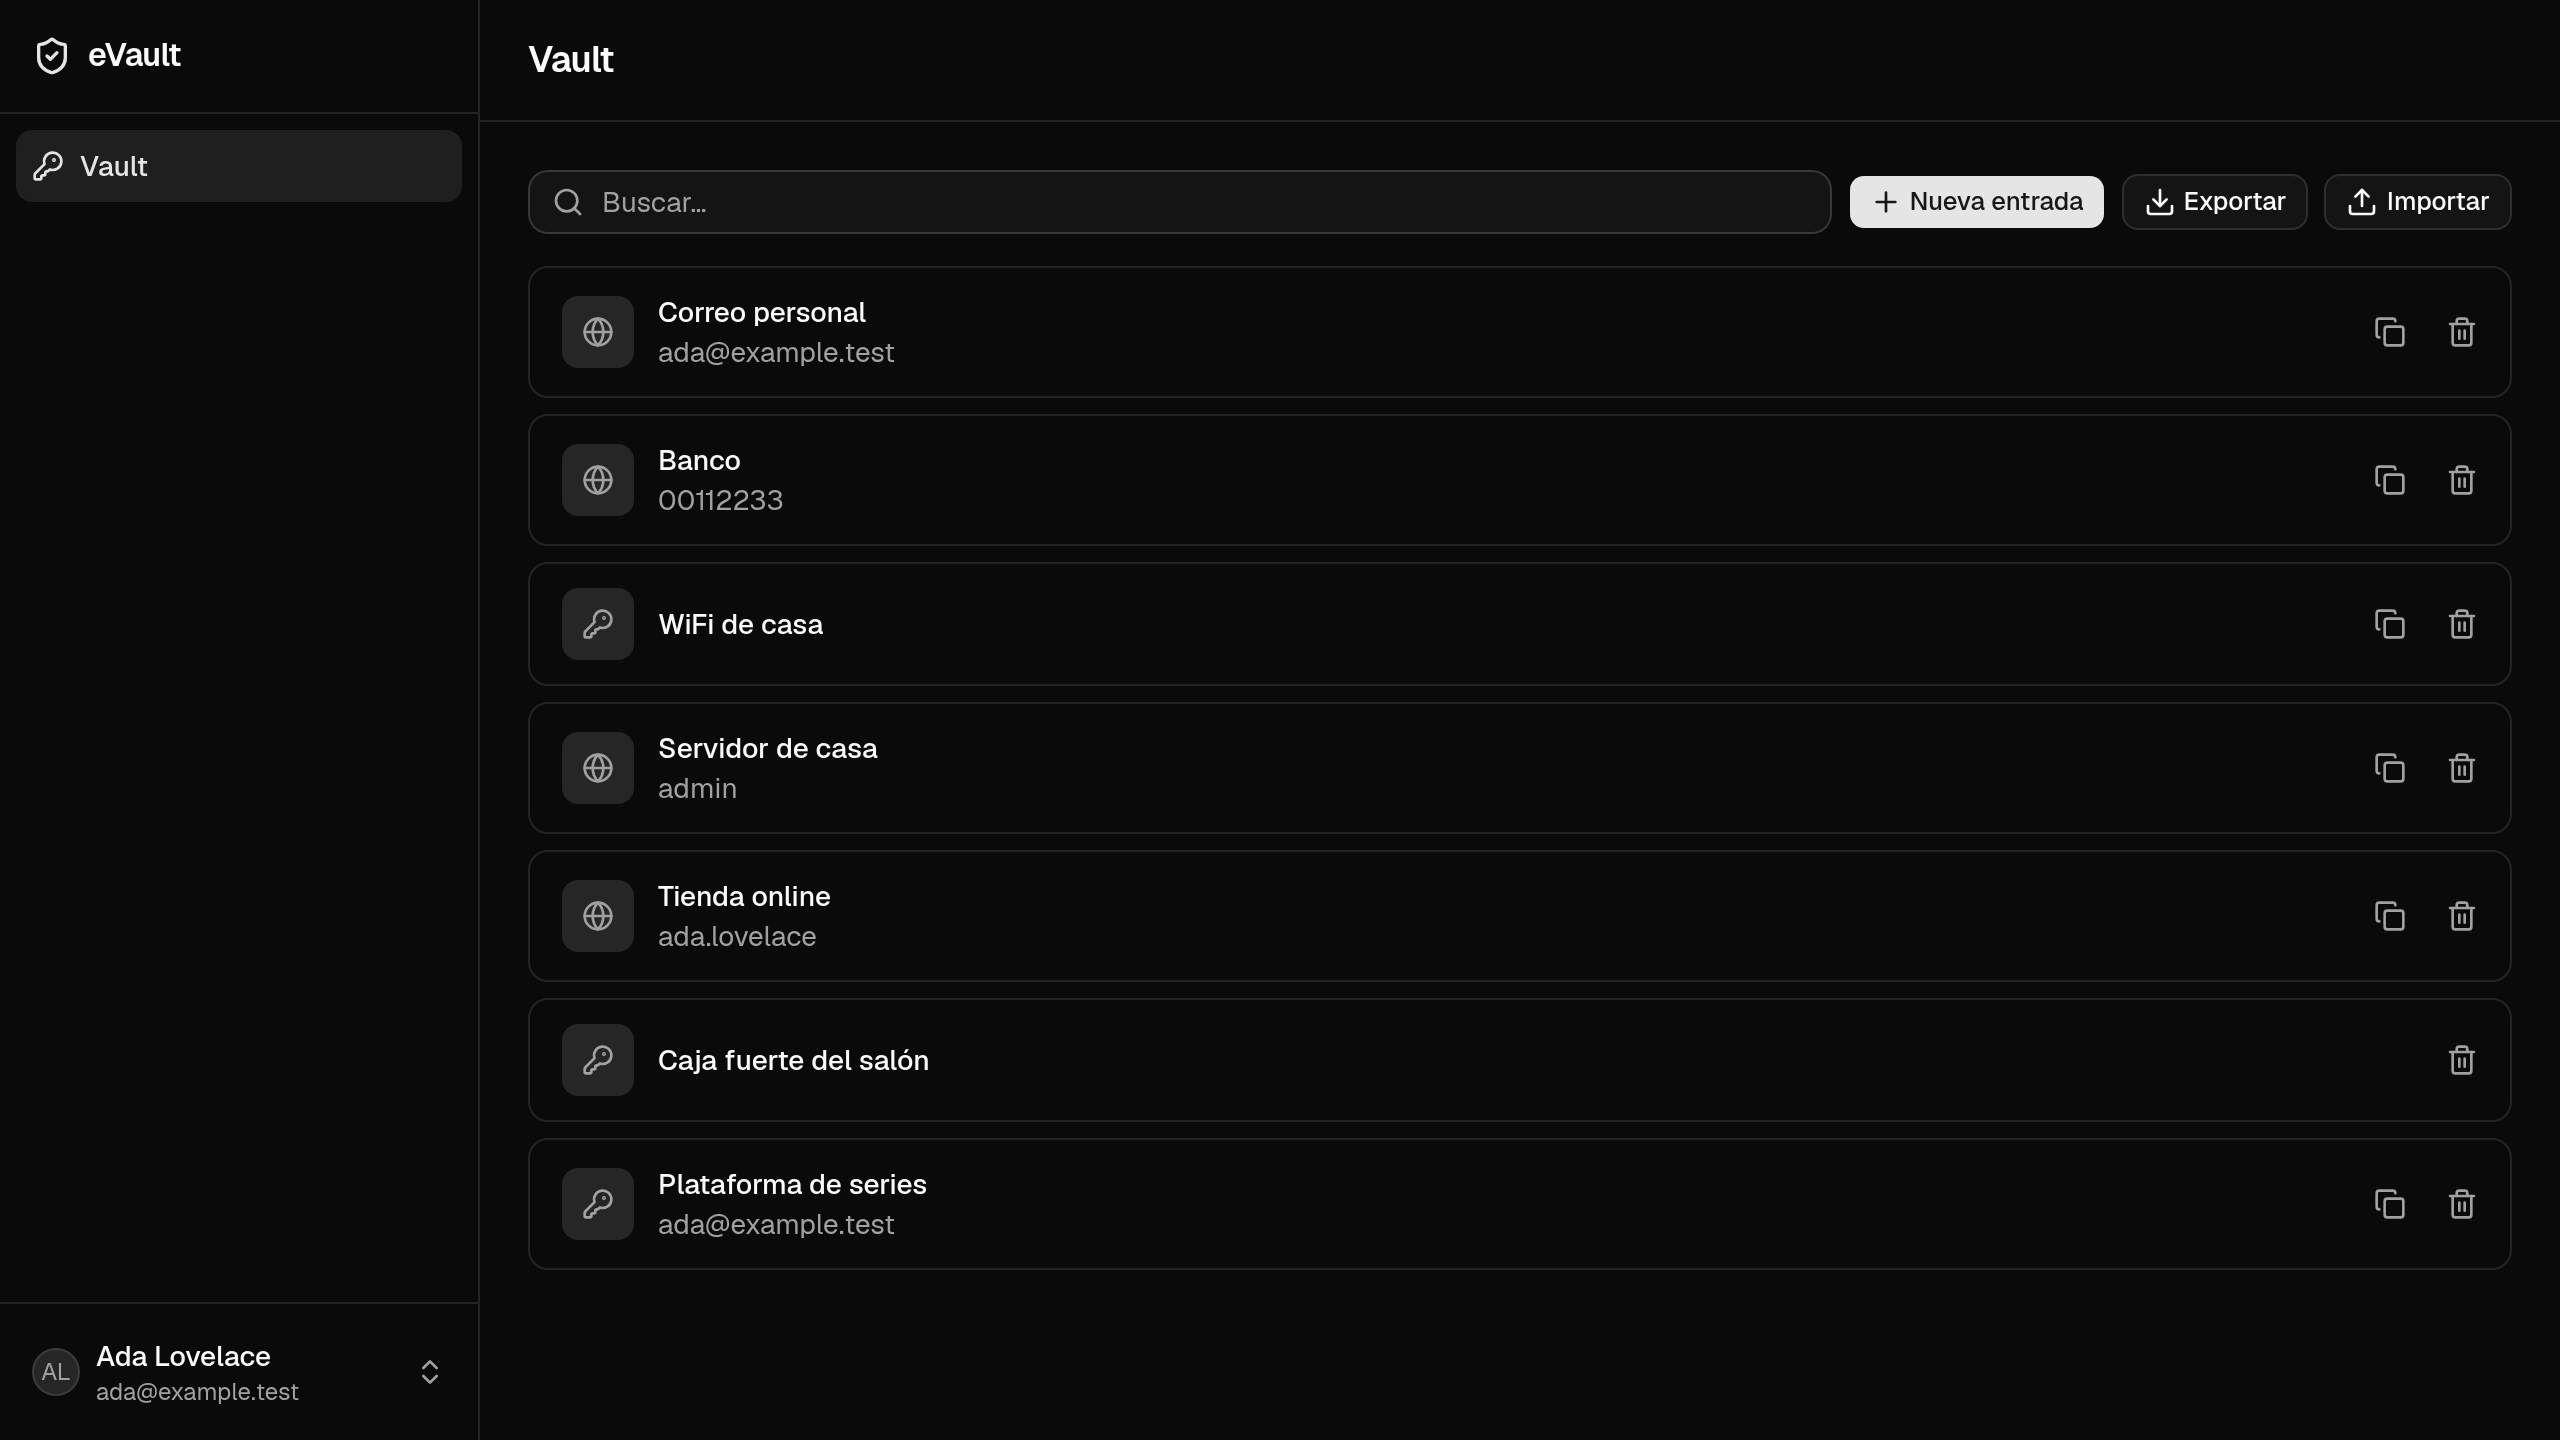
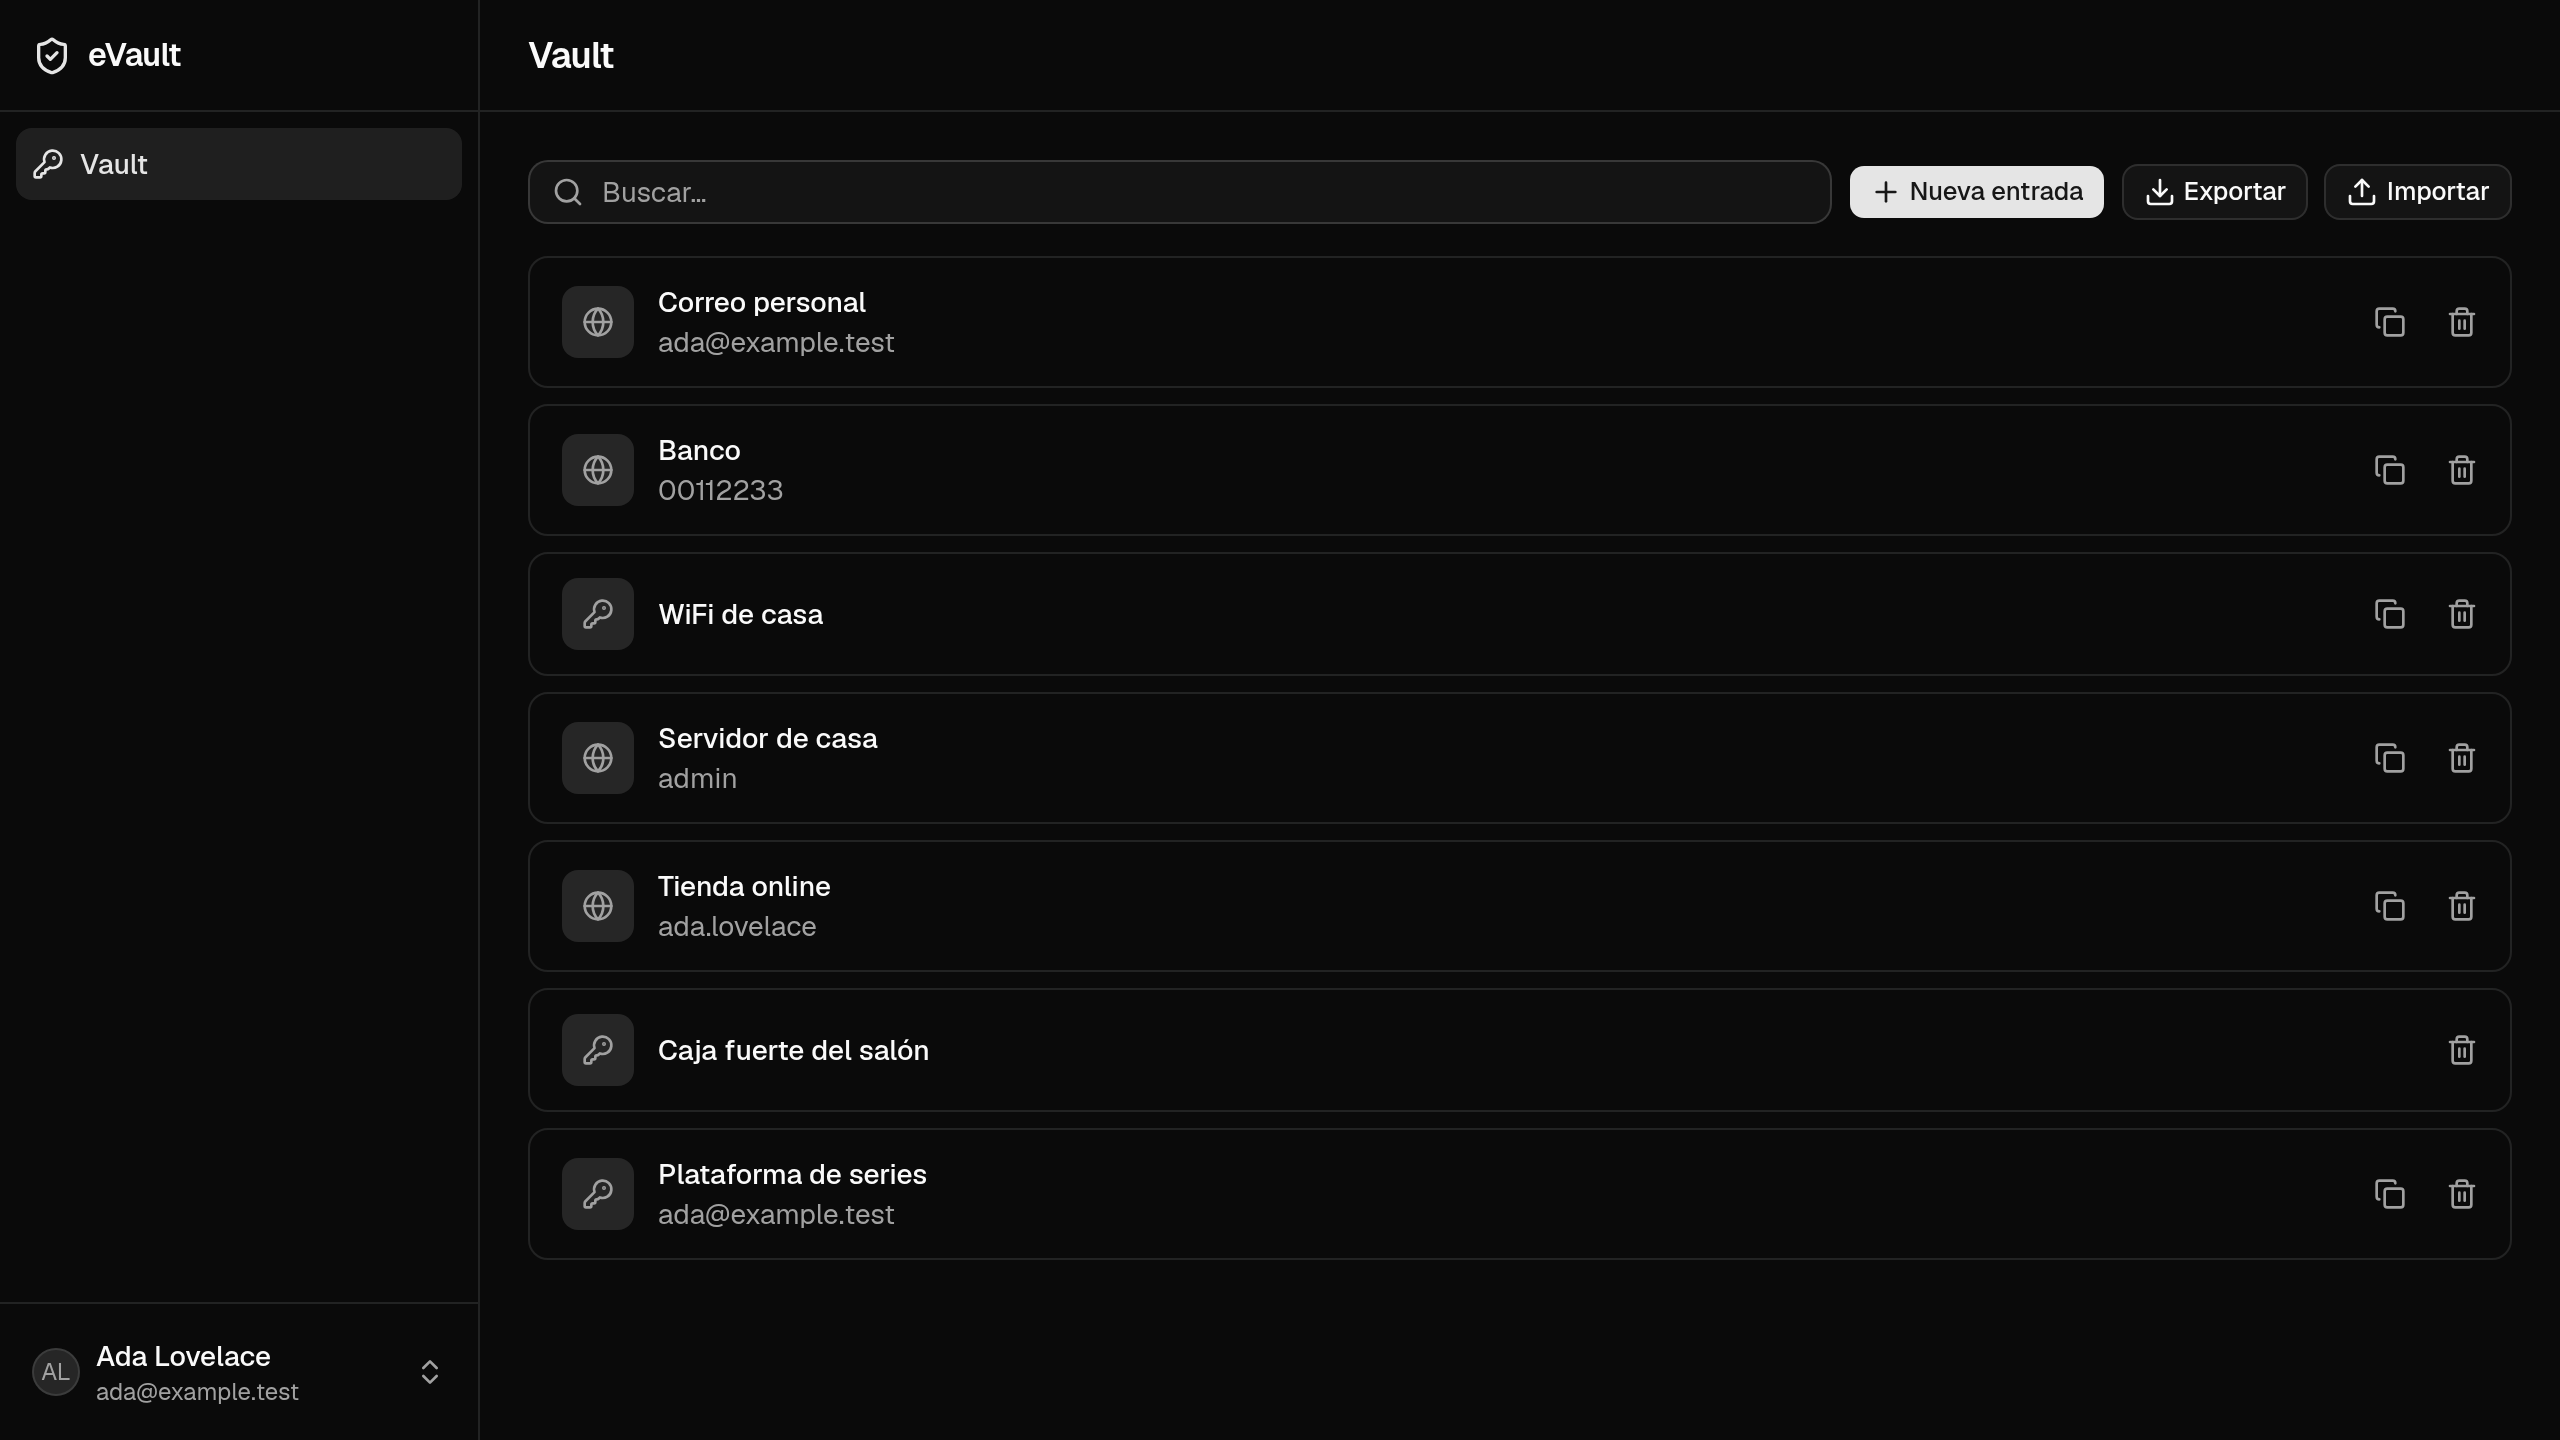
fix(web): alinear las cabeceras del sidebar y del contenido
Las dos líneas divisorias que separan las cabeceras del resto de la
pantalla no se continuaban: quedaban desalineadas 4px. Lo detectó una
observación sobre el screenshot del issue 158, que las ampliaba.

La causa era que cada cabecera derivaba su altura del tamaño de su propio
texto: py-4 más text-base daba 56px en el sidebar, y py-4 más text-lg
daba 60px en el contenido. Se fija la altura en h-14 para las dos, de
modo que la alineación deje de depender de la tipografía.

Quedaba un píxel más, y por otro motivo: el header lleva su línea como
border-b, dentro de sus 56px por box-sizing, mientras que el sidebar
usaba un Separator debajo, que empezaba en el píxel 56. Ahora los dos
usan border-b.

Verificado midiendo en el DOM, con las dos cabeceras en 56px y el mismo
bottom, y sobre la imagen final, con las dos líneas en la misma fila.

diff --git a/web/src/components/app/Sidebar.tsx b/web/src/components/app/Sidebar.tsx
@@ -32,12 +32,24 @@ const NAVEGACION: NavItem[] = [{ a: '/', etiqueta: 'Vault', icono: KeyRound }]
 export function Sidebar({ onNavigate }: { onNavigate?: () => void }) {
   return (
     <>
-      <div className="flex items-center gap-2 px-4 py-4 text-base font-semibold tracking-tight">
+      {/*
+       * Altura fija, y no un padding vertical: esta cabecera y la del contenido
+       * tienen que medir lo mismo para que sus dos líneas divisorias se continúen
+       * a lo largo de la pantalla. Con `py-*` cada una derivaba su altura del
+       * tamaño de su propio texto —`text-base` aquí, `text-lg` allí— y quedaban
+       * desalineadas 4px. Se vio ampliado en el screenshot del issue #158.
+       *
+       * La línea va como `border-b` de esta misma caja y no como un `<Separator />`
+       * debajo, por lo mismo: con `box-sizing: border-box` el borde entra dentro de
+       * los 56px, igual que en AppLayout, mientras que un separador aparte empezaría
+       * en el píxel 56 y las dos líneas quedarían desalineadas una más.
+       *
+       * Si se cambia esta altura, hay que cambiar la de AppLayout con ella.
+       */}
+      <div className="flex h-14 items-center gap-2 border-b border-border px-4 text-base font-semibold tracking-tight">
         <ShieldCheck className="size-5 text-primary" aria-hidden="true" />
         <span>eVault</span>
       </div>
-
-      <Separator />
 
       <nav aria-label="Principal" className="flex-1 space-y-1 p-2">
         {NAVEGACION.map(({ a, etiqueta, icono: Icono }) => (

diff --git a/web/src/components/app/AppLayout.tsx b/web/src/components/app/AppLayout.tsx
@@ -50,7 +50,9 @@ export function AppLayout({ title, children }: AppLayoutProps) {
       </Dialog>
 
       <div className="flex min-w-0 flex-1 flex-col">
-        <header className="flex items-center gap-2 border-b border-border px-4 py-3 md:px-6 md:py-4">
+        {/* La misma altura fija que la cabecera del Sidebar, y por el mismo
+            motivo: sus dos líneas divisorias tienen que continuarse. Ver allí. */}
+        <header className="flex h-14 items-center gap-2 border-b border-border px-4 md:px-6">
           <Button
             variant="ghost"
             size="icon"
